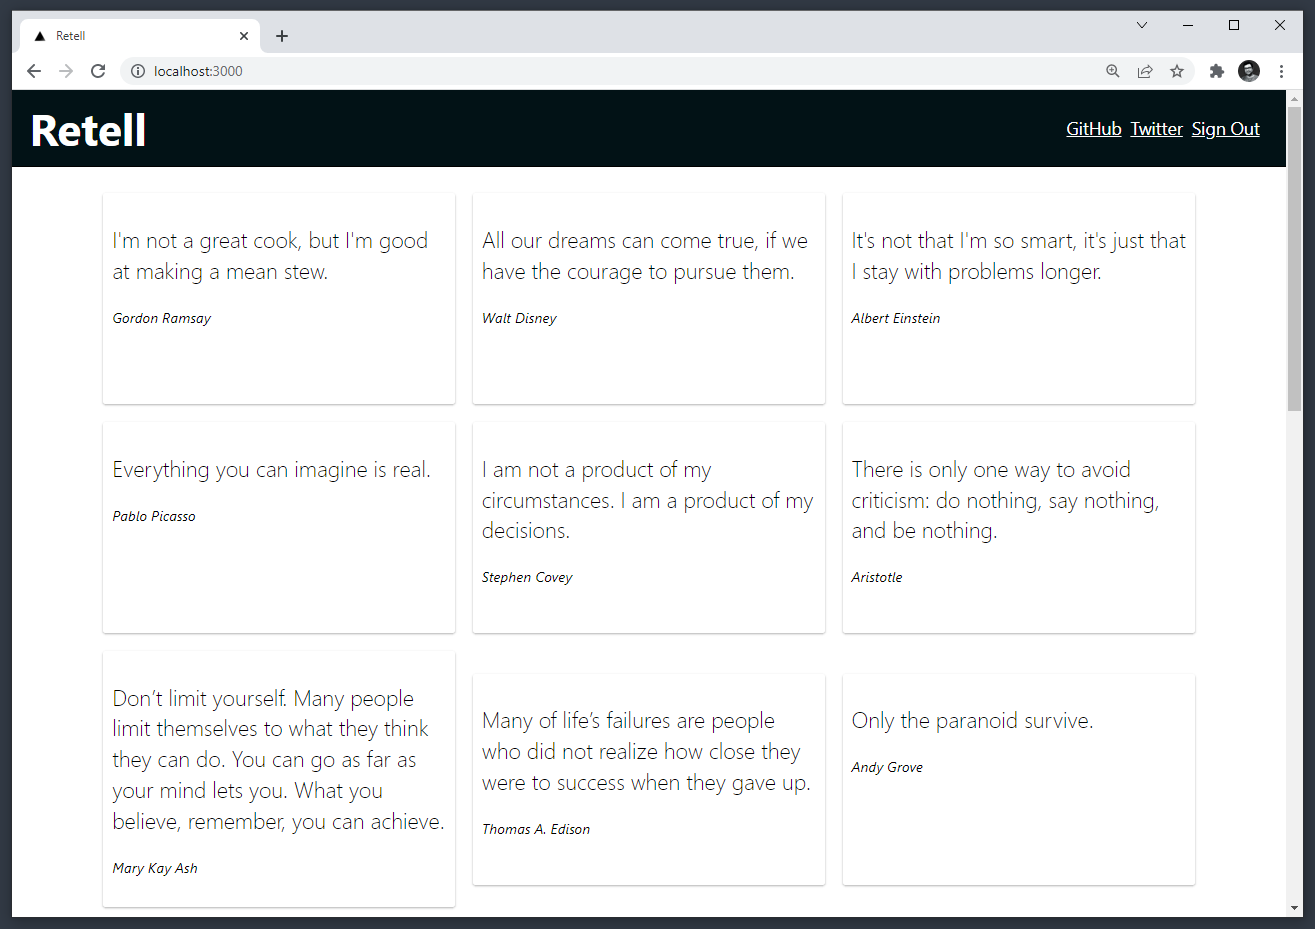
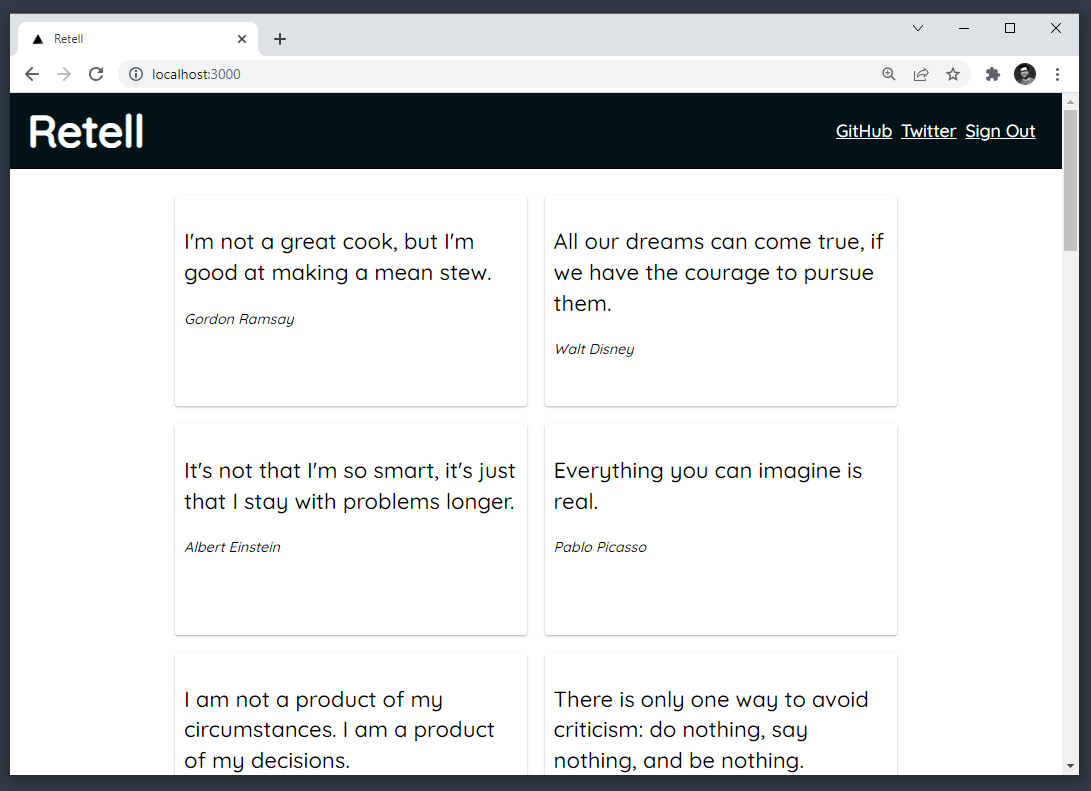
💄 Added fonts

diff --git a/pages/_document.js b/pages/_document.js
@@ -1,0 +1,33 @@
+import Document, {
+  Head, Html, Main,
+  NextScript
+} from 'next/document';
+
+class MyDocument extends Document {
+  static async getInitialProps(ctx) {
+    const initialProps = await Document.getInitialProps(ctx)
+
+    return initialProps
+  }
+
+  render() {
+    return (
+      <Html>
+        <Head>
+          <link rel="preconnect" href="https://fonts.googleapis.com" />
+          <link rel="preconnect" href="https://fonts.gstatic.com" crossorigin />
+          <link href="https://fonts.googleapis.com/css2?family=Quicksand:wght@500&display=swap" rel="stylesheet" />
+          <noscript>
+            <link href="https://fonts.googleapis.com/css2?family=Quicksand:wght@500&display=swap" rel="stylesheet" />
+          </noscript>
+        </Head>
+        <body>
+          <Main />
+          <NextScript />
+        </body>
+      </Html>
+    )
+  }
+}
+
+export default MyDocument;

diff --git a/styles/globals.css b/styles/globals.css
@@ -2,8 +2,7 @@ html,
 body {
   padding: 0;
   margin: 0;
-  font-family: -apple-system, BlinkMacSystemFont, Segoe UI, Roboto, Oxygen,
-    Ubuntu, Cantarell, Fira Sans, Droid Sans, Helvetica Neue, sans-serif;
+  font-family: 'Quicksand', sans-serif;
 }
 
 a {
